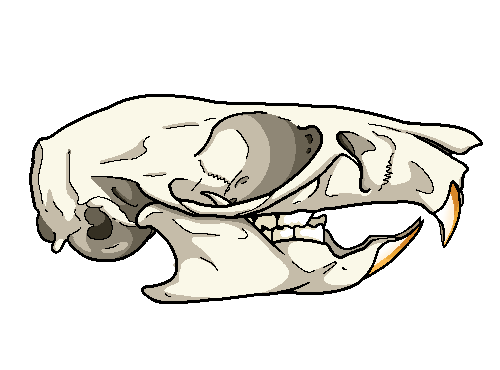
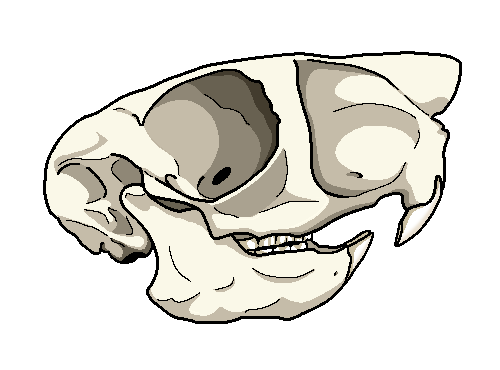
Update Anomaluromorpha

Changed region(s): [[0.06, 0.1189, 0.96, 0.8919], [0.93, 0.4459, 0.96, 0.4757], [0.18, 0.2973, 0.21, 0.327]]

diff --git a/frontend/src/pages/Anomaluromorpha.js b/frontend/src/pages/Anomaluromorpha.js
@@ -76,7 +76,7 @@ const Anomaluromorpha = () => {
     return (
         <div>
             <div className="page-title">
-                <img src="https://cdn.discordapp.com/attachments/1222273673604628641/1222279476151582780/Castorimorpha.png?ex=66dc0d37&is=66dabbb7&hm=fb16efc46e334c745d9fbf9c3d40599d435b17f7f1ff40b00e5068b2ffb46fe8&" alt="Anomaluromorpha" />
+                <img src="https://cdn.discordapp.com/attachments/1222273673604628641/1285126081556385846/Anomaluromorpha.png?ex=66e9226e&is=66e7d0ee&hm=9798b9ec91620739252072063687a3fccb433c3d0f5a5761f328520386da6e6b&" alt="Anomaluromorpha" />
                 <h1>Anomaluromorpha</h1>
                 <form>
                     <div className="search-bar">
@@ -95,7 +95,7 @@ const Anomaluromorpha = () => {
                         filteredAnomaluromorpha.length > 0 ?
                             (groupByFamily(filteredAnomaluromorpha)) : (
                                 <div className="no-results">
-                                    <img src="https://cdn.discordapp.com/attachments/1222273673604628641/1222279476151582780/Castorimorpha.png?ex=66dc0d37&is=66dabbb7&hm=fb16efc46e334c745d9fbf9c3d40599d435b17f7f1ff40b00e5068b2ffb46fe8&" alt="Anomaluromorpha" />
+                                    <img src="https://cdn.discordapp.com/attachments/1222273673604628641/1285126081556385846/Anomaluromorpha.png?ex=66e9226e&is=66e7d0ee&hm=9798b9ec91620739252072063687a3fccb433c3d0f5a5761f328520386da6e6b&" alt="Anomaluromorpha" />
                                     <p>This rodent hasn't been submitted yet! <a href="../submissions">Submit rodents</a></p>
                                 </div>
                             )

diff --git a/frontend/src/pages/Collections.js b/frontend/src/pages/Collections.js
@@ -7,7 +7,7 @@ const Collections = () => {
         <div className="collections-image-grid">
             <div className="collections-image-wrapper"
                 onClick={() => navigate('/collections/anomaluromorpha')}>
-                <img src="https://cdn.discordapp.com/attachments/932866678126161960/1244917657212555335/Myomorpha.png?ex=66dc02ea&is=66dab16a&hm=c9105221aac770488e054a4ef8a17c7718113a6f51e5bfe5aab7778eef1ea723&" alt="Anomaluromorpha" className="image" />
+                <img src="https://cdn.discordapp.com/attachments/1222273673604628641/1285126081556385846/Anomaluromorpha.png?ex=66e9226e&is=66e7d0ee&hm=9798b9ec91620739252072063687a3fccb433c3d0f5a5761f328520386da6e6b&" alt="Anomaluromorpha" className="image" />
                 <p className="collections-image-overlay">Anomalures and Springhares</p>
                 <p><b>Anomaluromorpha</b></p>
             </div>
